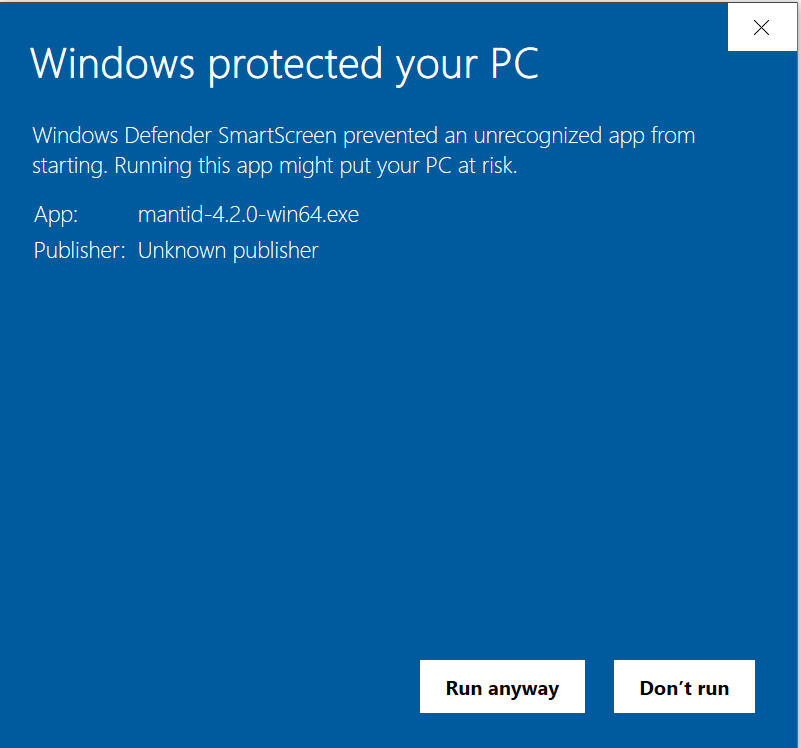
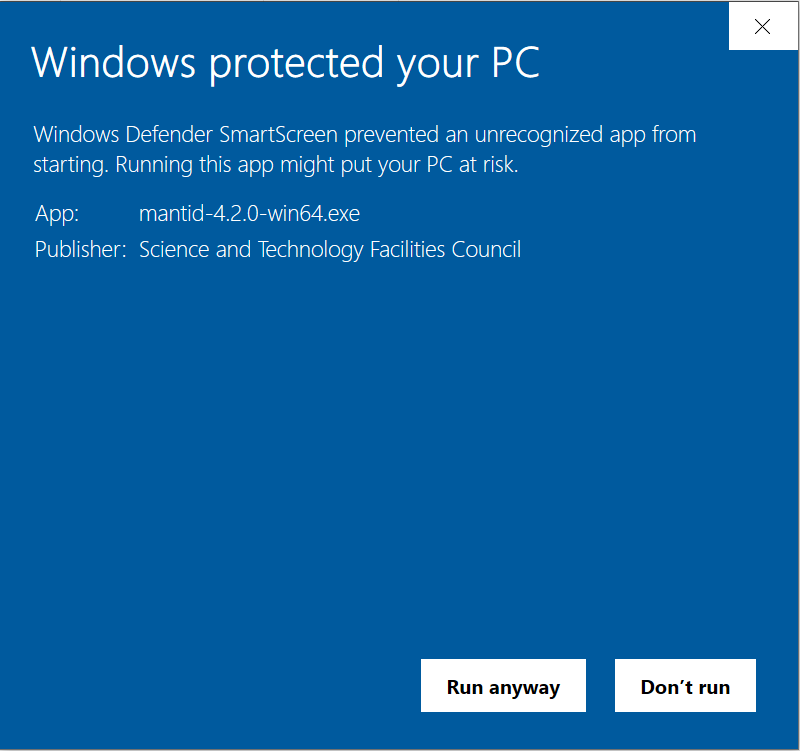
Update warning regarding signed Windows exe
It is now signed with a new certificate but can stiill
produce the smart screen warning while the reputation
of the certificate builds up.

diff --git a/templates/downloads.html b/templates/downloads.html
@@ -13,7 +13,7 @@
       <li><a href="{{instruction.replace("-", "").lower() ~ '.html' }}">{{ instruction.replace("-", " ") }}</a></li>{% endfor %}
     </ul>
     <div class="windows admonition warning">
-      <p>Windows users: We currently have an issue with our signing certificate and are unable to sign the windows executable.
+      <p>Windows users: We currently have an issue with our signing certificate.
         When running the installer you will first see the Windows Defender image on the left below.
         Click <i>More Info</i> and then <i>Run anyway</i> on the next screen to continue with the installation.</p>
       <div class="row">
